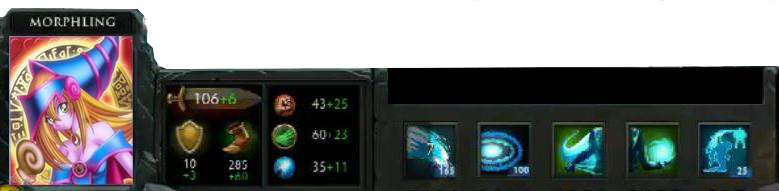
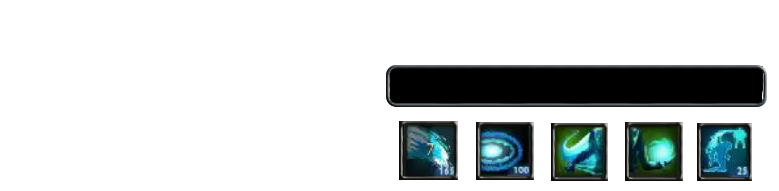
[C] Interface개선

diff --git a/Skima/Classes/RoomScene.cpp b/Skima/Classes/RoomScene.cpp
@@ -33,7 +33,7 @@ bool RoomScene::init()
     roomBackground->setOpacity(150);
     this->addChild(roomBackground, -1);
     auto selectZone = Sprite::create("Images/SelectZone.png");
-    selectZone->setPosition(Vec2(winSize.width * 2 / 8, winSize.height * 3 / 8 - 30));
+    selectZone->setPosition(Vec2(winSize.width / 4, winSize.height * 3 / 8 - 30));
     selectZone->setOpacity(100);
     this->addChild(selectZone, 1);
         
@@ -191,11 +191,11 @@ void RoomScene::ChangeSelectedHero(HeroType heroType)
 
     auto winSize = Director::getInstance()->getWinSize();
     auto zoneEffect = Sprite::create("Images/ZoneEffect.png");
-    zoneEffect->setPosition(Vec2(winSize.width * 2 / 8, winSize.height / 4));
+    zoneEffect->setPosition(Vec2(winSize.width / 4, winSize.height / 4));
     zoneEffect->setOpacity(100);
     this->addChild(zoneEffect, 2);
 
-    auto zoneAction_0 = MoveTo::create(1.0f, Vec2(winSize.width * 2 / 8, winSize.height / 2));
+    auto zoneAction_0 = MoveTo::create(1.0f, Vec2(winSize.width / 4, winSize.height / 2));
     auto zoneAction_1 = FadeTo::create(1.5f, 0);
     zoneEffect->runAction(zoneAction_0);
     zoneEffect->runAction(zoneAction_1);

diff --git a/Skima/Classes/UILayer.cpp b/Skima/Classes/UILayer.cpp
@@ -35,7 +35,7 @@ bool UILayer::init()
     this->addChild(sprite("Images/HpBar_interface.png", Vec2(400, 88), Vec2(0.68f, 1.030f), Vec2(0.0, 0.0)), 10, "HpBar");
     this->addChild(sprite("Images/fireball.jpg",        Vec2(443, 38), Vec2(0.03f, 0.033f), Vec2(0.5, 0.5)));
     this->addChild(sprite("Images/iceball.jpg",         Vec2(518, 38), Vec2(0.55f, 0.800f), Vec2(0.5, 0.5)));
-    this->addChild(sprite("Images/teleport_icon.png",   Vec2(590, 38), Vec2(0.55f, 0.800f), Vec2(0.5, 0.5)));
+    this->addChild(sprite("Images/teleport_icon.png",   Vec2(590, 38), Vec2(0.70f, 0.800f), Vec2(0.5, 0.5)));
     this->addChild(sprite("Images/Meteor_icon.png",     Vec2(663, 38), Vec2(0.55f, 0.800f), Vec2(0.5, 0.5)));
 
     auto cooltimeBox = [&](SkillKey key, Vec2 pos)
